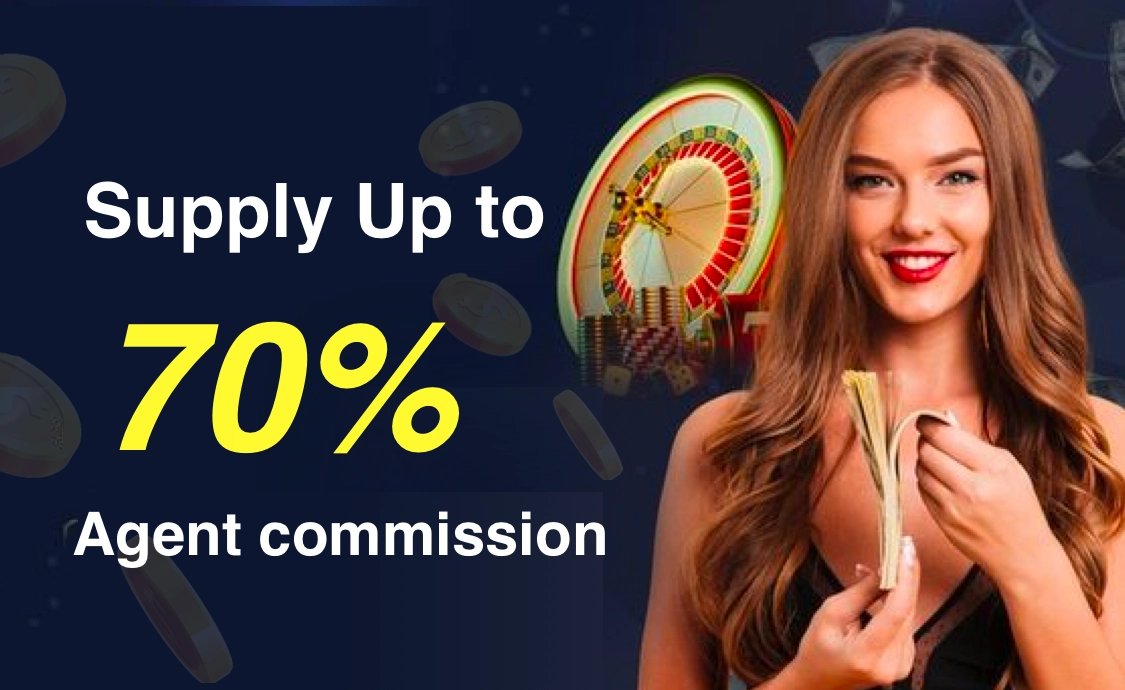
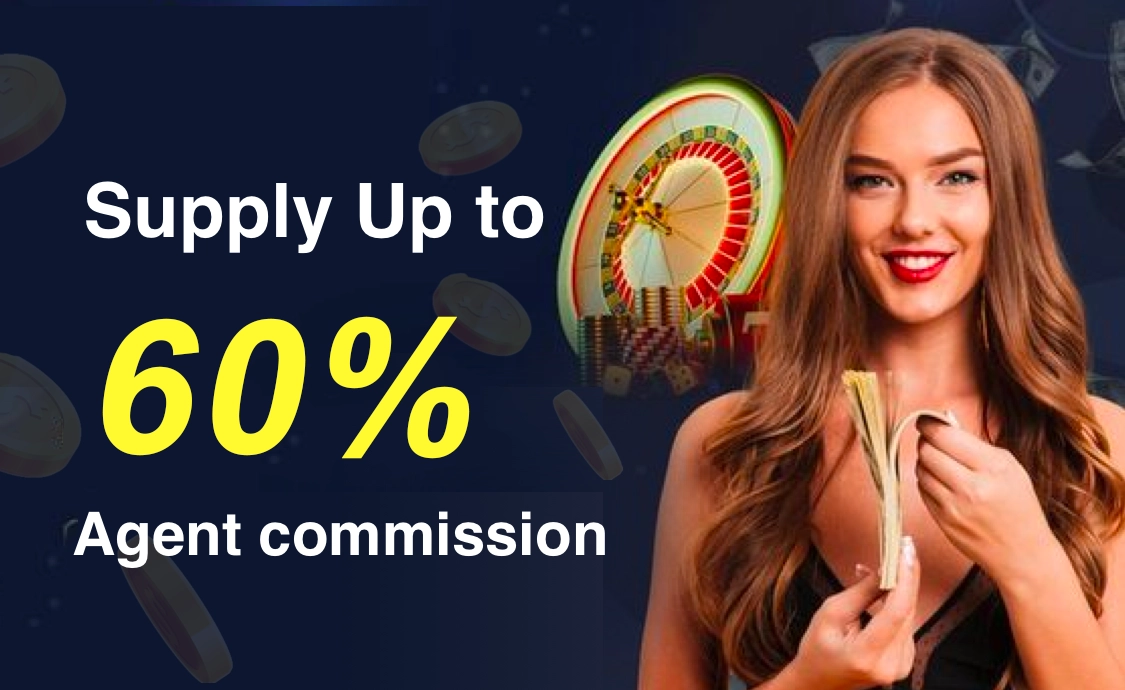
70% to 60%

Changed region(s): [[0.0622, 0.4565, 0.4356, 0.6696], [0.1867, 0.6391, 0.2489, 0.6696]]

diff --git a/LuckyLucky/index.html b/LuckyLucky/index.html
@@ -5,7 +5,7 @@
     <meta name="viewport" content="width=device-width, initial-scale=1.0">
     <link rel="stylesheet" href="styles.css">
     <link rel="icon" href="images/icon.ico" />
-    <meta name="description" content="Join LUCKYLUCKY today and become an affiliate agent to access top-notch gambling products, attractive commissions up to 65%, and excellent support. No conditions needed, just register and start earning profits now!">
+    <meta name="description" content="Join LUCKYLUCKY today and become an affiliate agent to access top-notch gambling products, attractive commissions up to 60%, and excellent support. No conditions needed, just register and start earning profits now!">
     <title>LuckyLucky</title>
 </head>
 <body>
@@ -20,7 +20,7 @@
     </div>
     <div class="steps">
         <div class="stepsTitle">Welcome to LUCKYLUCKY!</div>
-        <div class="stepsDescription">LUCKYLUCKY offers players the best and hottest products, the most suitable payment methods for the Philippines region, the most secure withdrawal experience, and the best and most favorable agent policies. By partnering with LUCKYLUCKY, you have the opportunity to earn up to 65% monthly commission, and there are no limit to the amount you can receive!</div>
+        <div class="stepsDescription">LUCKYLUCKY offers players the best and hottest products, the most suitable payment methods for the Philippines region, the most secure withdrawal experience, and the best and most favorable agent policies. By partnering with LUCKYLUCKY, you have the opportunity to earn up to 60% monthly commission, and there are no limit to the amount you can receive!</div>
         <div class="stepsDescription">To share success and make a profit today, you only need to take three steps:</div>
         <div class="steps1to3">
             <img alt="stepsBackground" class="stepsImg" src="images/编组 11@3x.webp">
@@ -123,18 +123,18 @@
         <div class="agentsBenefitSubtitle">Why chose to become a LUCKYLUCKY agent?</div>
         <div class="benefit2Description"><strong>LUCKYLUCKY</strong> offers a wide variety of top-notch gambling products, including slots, online casinos, and many other online games.</div>
         <div class="benefit2Description"><strong>LUCKYLUCKY</strong> brand has been ranked as one of the best gambling companies.</div>
-        <div class="benefit2Description">Attractive commission rates. Affiliate agents can earn up to 65% profit. In addition, <strong>LUCKYLUCKY</strong> regularly organizes caring and thanking activities for loyal agents, and provides special rewards for outstanding agents.</div>
+        <div class="benefit2Description">Attractive commission rates. Affiliate agents can earn up to 60% profit. In addition, <strong>LUCKYLUCKY</strong> regularly organizes caring and thanking activities for loyal agents, and provides special rewards for outstanding agents.</div>
         <div class="benefit2Description">Provides an agent page with detailed and convenient customer data tracking. Comprehensive real-time statistical reports can be access.</div>
         <div class="benefit2Description">An extensive promotion system helps players achieve the best gaming experience.</div>
         <div class="benefit2Description">The funding management function helps agents to recharge for downline members, effectively supporting agents in conducting promotional activities, attracting members, and assisting agents' members.</div>
-        <div class="benefit2Description">The customer support department is enthusiastic and quickly resolves agent issues through various channels such as email, Zalo, Facebook, phone, etc.</div>
+        <div class="benefit2Description">The customer support department is enthusiastic and quickly resolves agent issues through various channels such as email, Instagram, Facebook, phone, etc.</div>
         <div class="benefit2Description">The affiliate operations department not only provides excellent service to existing agents but also offers various forms of support to new affiliate partners, such as financial support, promotion guidance, and subordinate management, and other support.</div>
         <img class="benefitImg" alt="Agents" src="images/img@3x.webp">
     </div>
     <div class="commission">
         <div class="commissionTitle">Agent commission statement</div>
         <div class="commissionCard">
-            <div class="commissionCardTop">PHP: 55%
+            <div class="commissionCardTop">PHP: 50%
                 <div class="commissionCardTopBG"></div>
             </div>
             <div class="commissionCardBottom">
@@ -144,7 +144,7 @@
             </div>
         </div>
         <div class="commissionCard">
-            <div class="commissionCardTop">PHP: 60%
+            <div class="commissionCardTop">PHP: 55%
                 <div class="commissionCardTopBG"></div>
             </div>
             <div class="commissionCardBottom">
@@ -154,7 +154,7 @@
             </div>
         </div>
         <div class="commissionCard">
-            <div class="commissionCardTop">PHP: 65%
+            <div class="commissionCardTop">PHP: 60%
                 <div class="commissionCardTopBG"></div>
             </div>
             <div class="commissionCardBottom">
@@ -163,20 +163,10 @@
                 <div class="bottomDescription">20 valid members</div>
             </div>
         </div>
-        <div class="commissionCard">
-            <div class="commissionCardTop">PHP: 70%
-                <div class="commissionCardTopBG"></div>
-            </div>
-            <div class="commissionCardBottom">
-                <div class="bottomTitle"><span>Earning over a million</span></div>
-                <div class="bottomDescription">Negative profit ≥5000000 PHP</div>
-                <div class="bottomDescription">30 valid members</div>
-            </div>
-        </div>
         <div class="commissionTitle2">Membership Requirements</div>
         <div class="commissionDescription">Deposit 3 times or more in the current month, with a total deposit amount exceeding 5000, and valid bets exceeding 10000</div>
         <div class="commissionTitle2">Commission calculation formula</div>
-        <div class="commissionDescription">Commission = [Total amount lost by the customer - Refund amount- (Total lost amount × 15% management fee)] × Commission Percentage (as shown in the pink section on the table).</div>
+        <div class="commissionDescription">Commission = [Total amount lost by the customer - Refund amount - (Total lost amount × 15% management fee)] × Commission Percentage (as shown in the pink section on the table).</div>
         <div class="commissionTitle2">Management fees</div>
         <div class="commissionDescription">Agent platform fees, Agent fee of downline member deposit and withdrawal. (Management fees will be charged if the agent has income.)
             <br><strong>New member commissions and bonuses will be distributed before the 5th of each month</strong></div>
